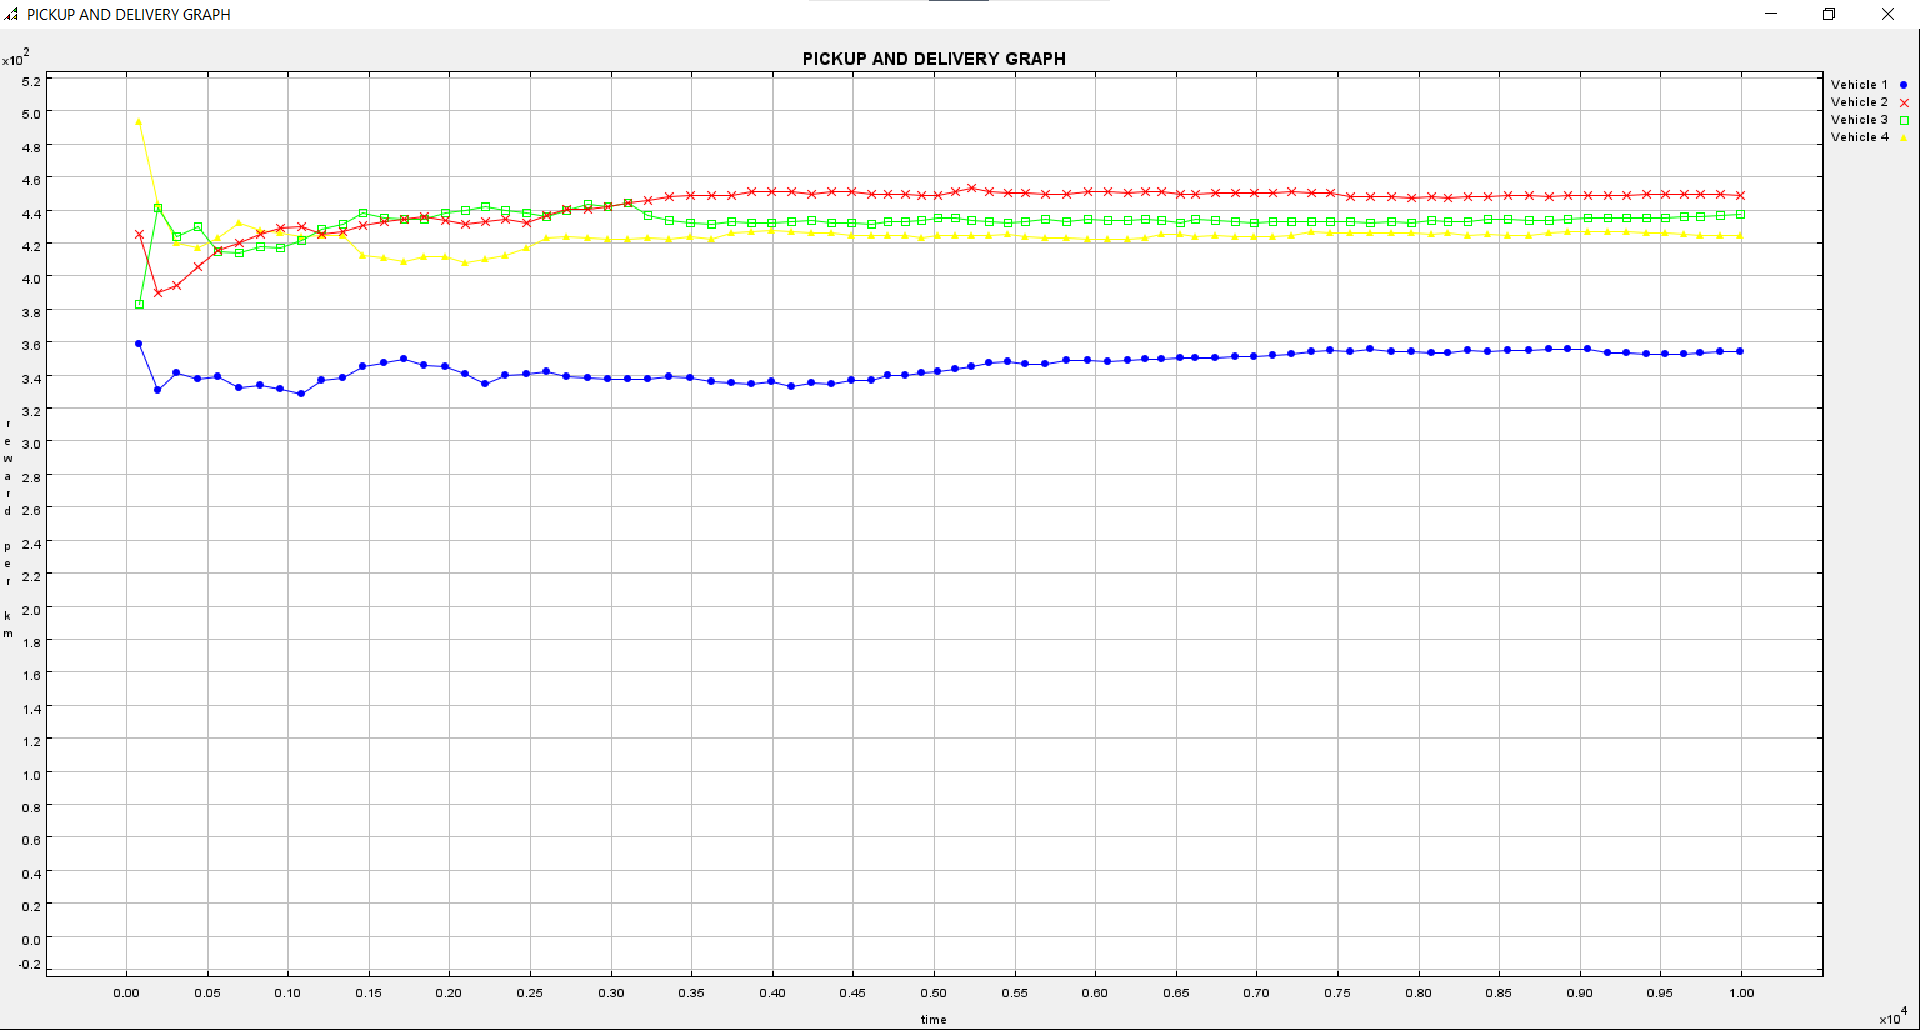
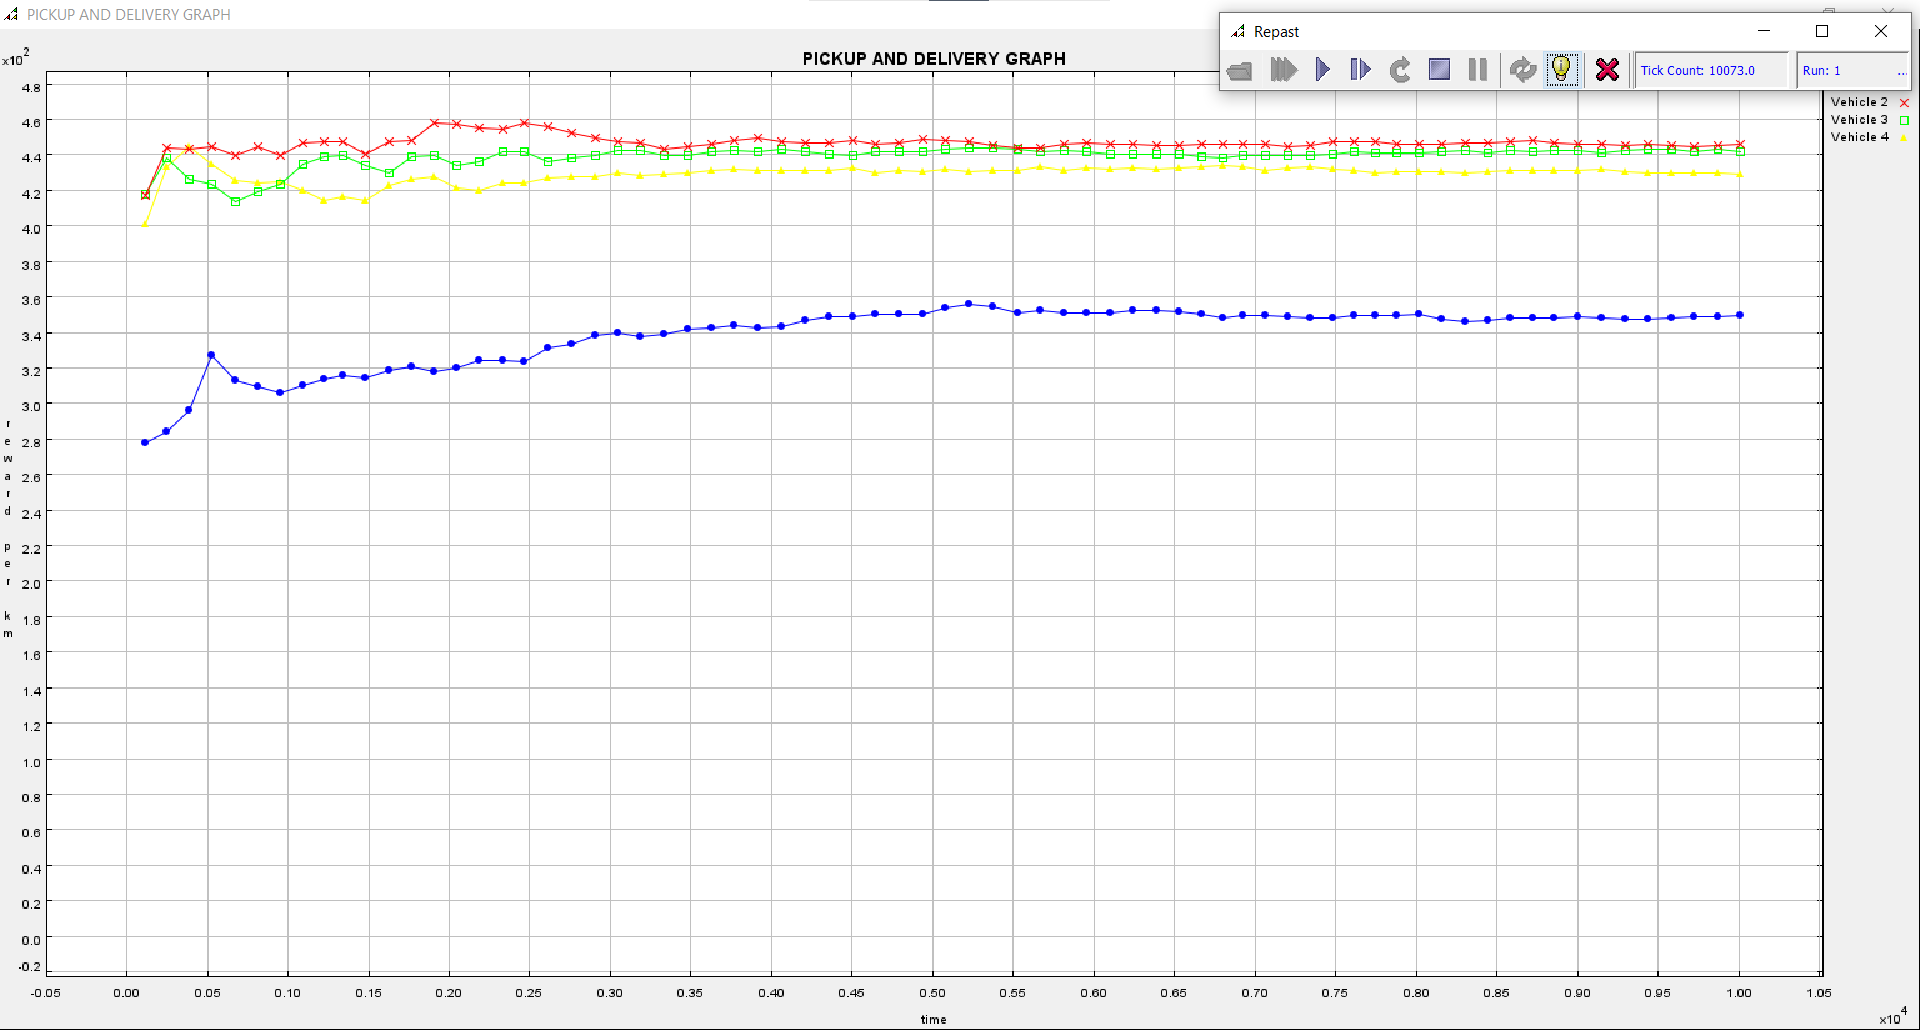
Fix distance accounting

diff --git a/reactive/src/template/ReactiveTemplate.java b/reactive/src/template/ReactiveTemplate.java
@@ -56,13 +56,13 @@ public class ReactiveTemplate implements ReactiveBehavior
 				if (s.isTaskState()) {
 					ActionReactive a = new ActionReactive(s.getTaskDestination(), true);
 					actionList.add(a);
-					stateActionRewards.put(new Pair<>(s, a), (double) (td.reward(s.getCurrentCity(), s.getTaskDestination()) - agent.vehicles().get(0).costPerKm()));
+					stateActionRewards.put(new Pair<>(s, a), (double) (td.reward(s.getCurrentCity(), s.getTaskDestination()) - s.getCurrentCity().distanceTo(s.getTaskDestination()) * agent.vehicles().get(0).costPerKm()));
 				}
 
 				s.getCurrentCity().neighbors().forEach(c -> {
 					ActionReactive a = new ActionReactive(c, false);
 					actionList.add(a);
-					stateActionRewards.put(new Pair<>(s, a), (double) -agent.vehicles().get(0).costPerKm());
+					stateActionRewards.put(new Pair<>(s, a), (double) - s.getCurrentCity().distanceTo(c) * agent.vehicles().get(0).costPerKm());
 				});
 				
 				stateActionSpace.put(s, actionList);
